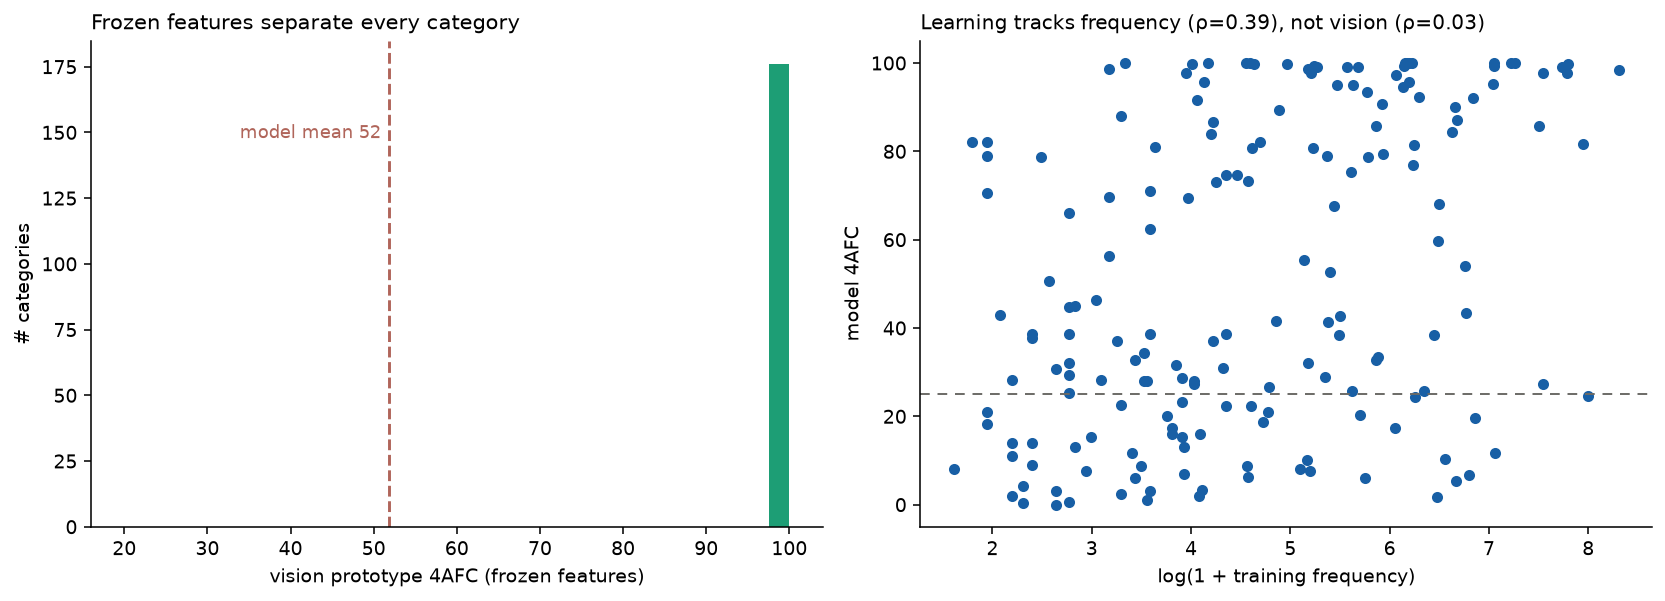
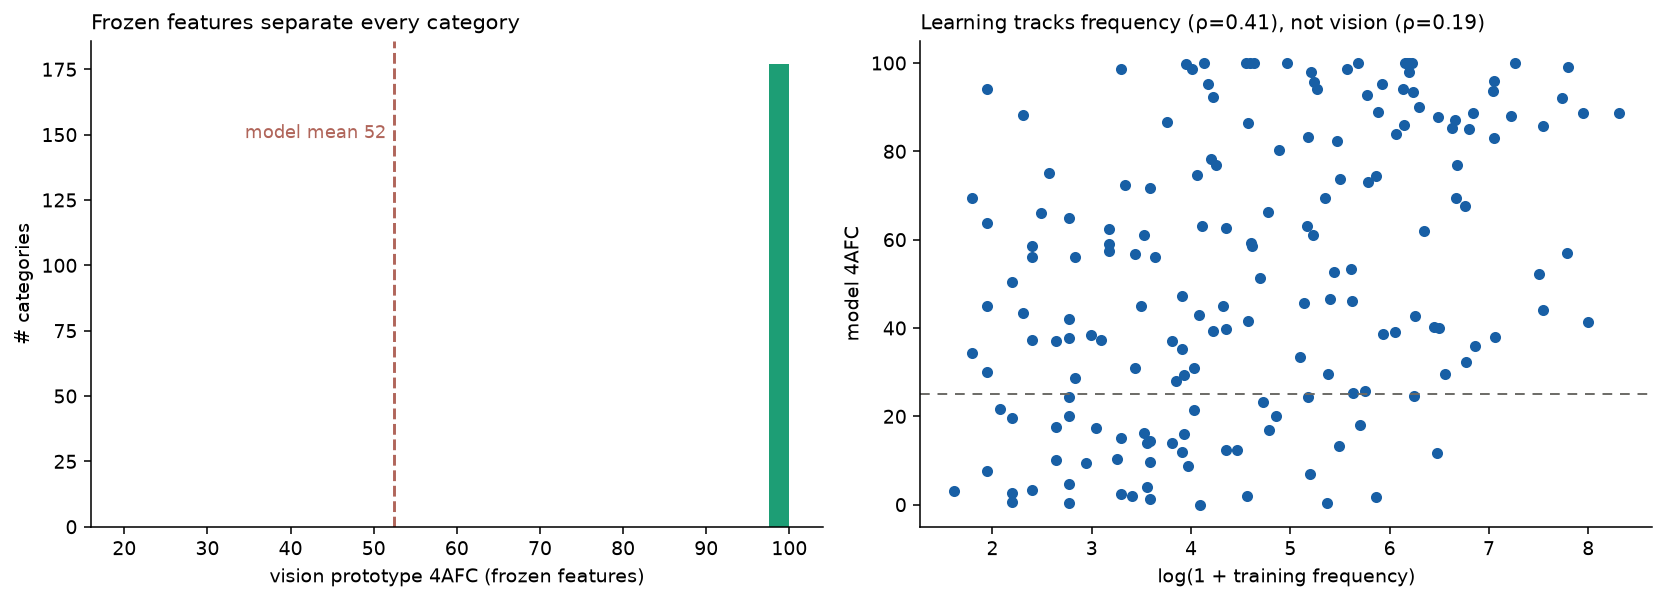
Fold in region-MIL 100% refit: 1.14M scaling point (65.6, +3) + definitive-model interpretation

diff --git a/src/make_scaling_figs.py b/src/make_scaling_figs.py
@@ -11,7 +11,8 @@ INK, SUB, GRID = "#2c2c2a", "#6b6a66", "#e1e0d9"
 RAND, ALIGN = "#b0655a", "#1d9e75"
 
 # --- scaling curves (N, mean, sd) ---
-rand = [(10000, 30.0, 3.5), (30000, 38.3, 0.8), (100000, 40.2, 3.1), (300000, 56.2, 2.6), (911000, 62.6, 1.7)]
+rand = [(10000, 30.0, 3.5), (30000, 38.3, 0.8), (100000, 40.2, 3.1), (300000, 56.2, 2.6),
+        (911000, 62.6, 1.7), (1145000, 65.6, 2.2)]   # 1.14M = full corpus (held-out 20% added)
 align = [(10000, 63.9, 5.5), (30000, 68.0, 1.3), (85000, 71.4, 1.6)]
 fig, ax = plt.subplots(figsize=(7.6, 4.6), dpi=150)
 for data, col, lab in [(rand, RAND, "random (unfiltered)"), (align, ALIGN, "Gemini-aligned")]:

diff --git a/src/make_item_analysis.py b/src/make_item_analysis.py
@@ -12,8 +12,10 @@ matplotlib.use("Agg")
 import matplotlib.pyplot as plt
 from common import tokenize, frame_key
 
+import sys
 W = "/data2/mcfrank/vlm-headcam"
-acc = pd.read_parquet(f"{W}/book_figs/item_acc_G_framereg_s0.parquet")   # category, acc, set
+run = sys.argv[1] if len(sys.argv) > 1 else "G_framereg_s0"
+acc = pd.read_parquet(f"{W}/book_figs/item_acc_{run}.parquet")   # category, acc, set
 
 # frequency: # training pairs whose utterance contains the category word
 G = pd.read_parquet(f"{W}/scored/gemini_full.parquet")

diff --git a/notes/experiments.md b/notes/experiments.md
@@ -710,3 +710,10 @@ limited; 111/176 learnable-by-vision-but-model-missed. => BOTTLENECK IS THE LEAR
 Also: launched region-MIL 100% refit (held-out 20% embedded to emb_reg_ho_0..7, train_frame_mil
 --window 0 on grid_baseline_full 1.14M) = top scaling point + definitive model. Book now 8 ch
 (added ch7 What got learned; conclusion->ch8). Scripts: make_item_plot, make_item_analysis.
+
+## Region-MIL 100% refit (definitive model + top scaling point)
+Held-out 20% embedded (emb_reg_ho_0..7, 154k frames); train_frame_mil --window 0 on
+grid_baseline_full (1.14M pairs). Region-MIL 100% = 65.6+/-2.2 (s0 68.1/s1 65.1/s2 63.7) vs 80%
+911k=62.6 -> +3.0, curve still climbing (no plateau, confirms data-limited). Item plot + analysis
+re-run on definitive model (G_base_mil_full_s0): vision-proto min 99 (features separate all),
+freq rho 0.41 >> vision rho 0.19. ch6 scaling curve + ch7 updated to definitive model.
